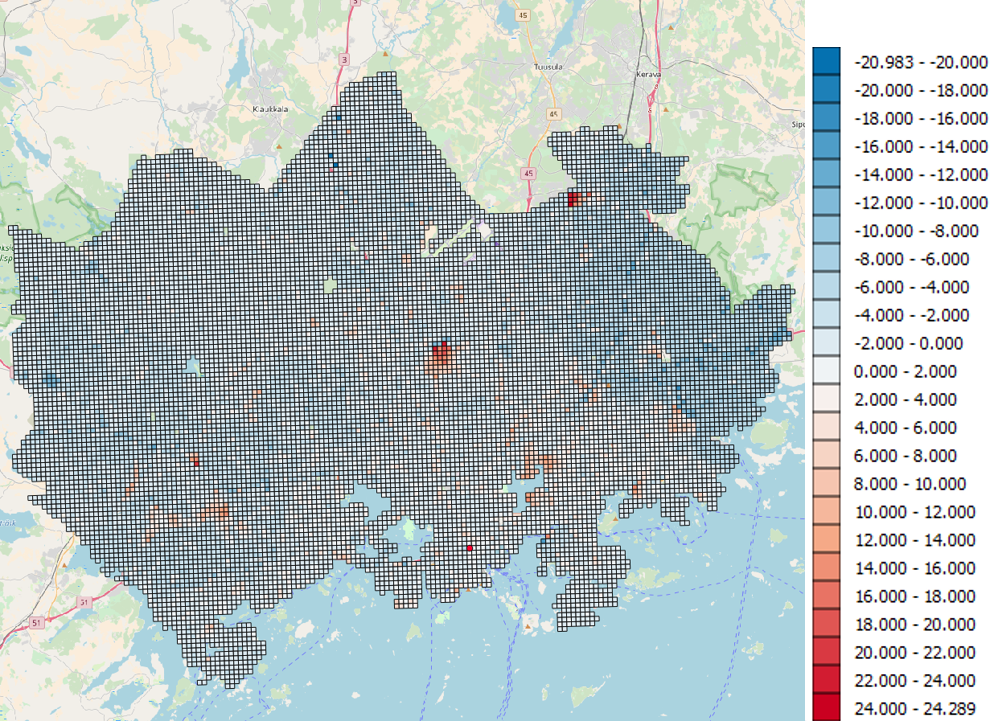
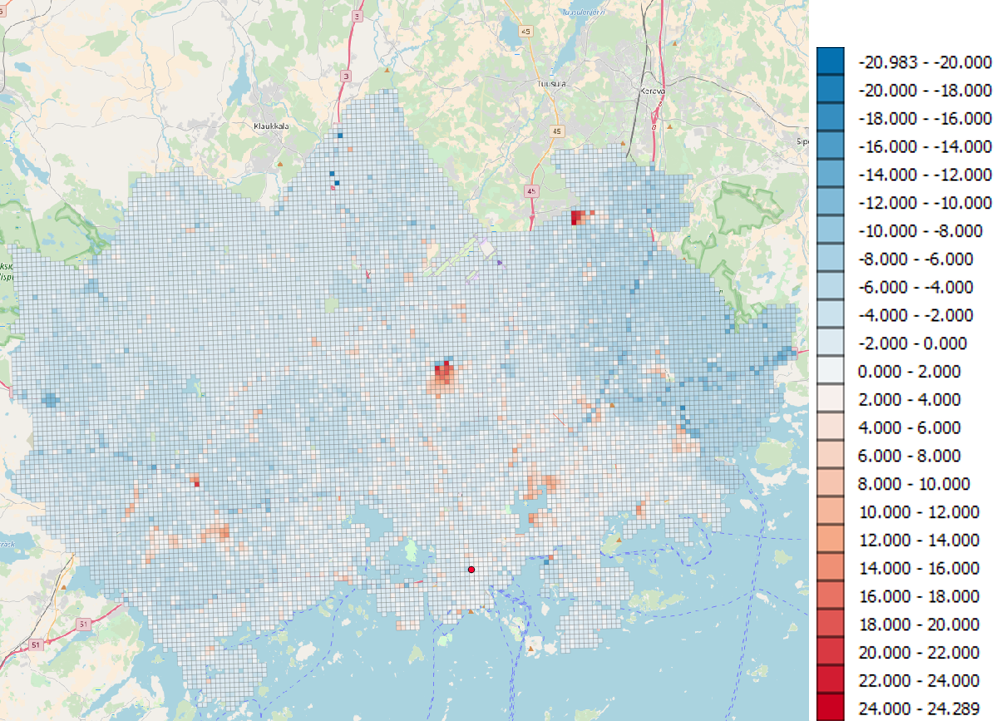
Polygon borders decreased to make the maps more readable.

diff --git a/docs/car-routing/README.md b/docs/car-routing/README.md
@@ -7,6 +7,8 @@ To run the comparison between the old Metrop-Access Digiroad tool and the new Ca
 As a result we have the following matrices for each of the points:
 * Negative values indicate that the new tool found faster routes than the old one and positives values that the new tool found slower routes.
 
+## 1st Point
+
 ![MatrixDifference][MatrixDifferenceImage1]
 
 | Statistic        | Value           | 
@@ -25,6 +27,7 @@ As a result we have the following matrices for each of the points:
 
 The image above illustrates that 81.5% of the routes lies within the interval [-2,2].
 
+## 2nd Point
 
 ![MatrixDifference2][MatrixDifferenceImage2]
 
@@ -44,6 +47,8 @@ The image above illustrates that 81.5% of the routes lies within the interval [-
 
 In this case, the routes laying within the [-2,2] interval are the 82,2%.  
 
+## 3rd Point
+
 ![MatrixDifference3][MatrixDifferenceImage3]
 
 | Statistic        | Value           | 
@@ -62,6 +67,8 @@ In this case, the routes laying within the [-2,2] interval are the 82,2%.
 
 For the third case, the 72,8% of the routes are within the interval [-2,2].
 
+## 4th Point
+
 ![MatrixDifference4][MatrixDifferenceImage4]
 
 | Statistic        | Value           | 
@@ -79,6 +86,8 @@ For the third case, the 72,8% of the routes are within the interval [-2,2].
 ![MatrixError4][MatrixErrorImage4]
 
 85,7% of the routes are within the intervals [-2,2]
+
+## 5th Point
 
 ![MatrixDifference5][MatrixDifferenceImage5]
 
@@ -99,6 +108,8 @@ For the third case, the 72,8% of the routes are within the interval [-2,2].
 Whereas in this last test case, only the 60,5% of the routes are within in the same interval [-2,2].
 
 In order to analyze why routes going to the city center are faster in certain regions, we chose 6 random points and calculated the shortest path to those points. See the result below.
+
+### 5th Point: shortest path from faster areas
 
 ![ShortestPathRautatientori][ShortestPathRautatientoriImage]
 
